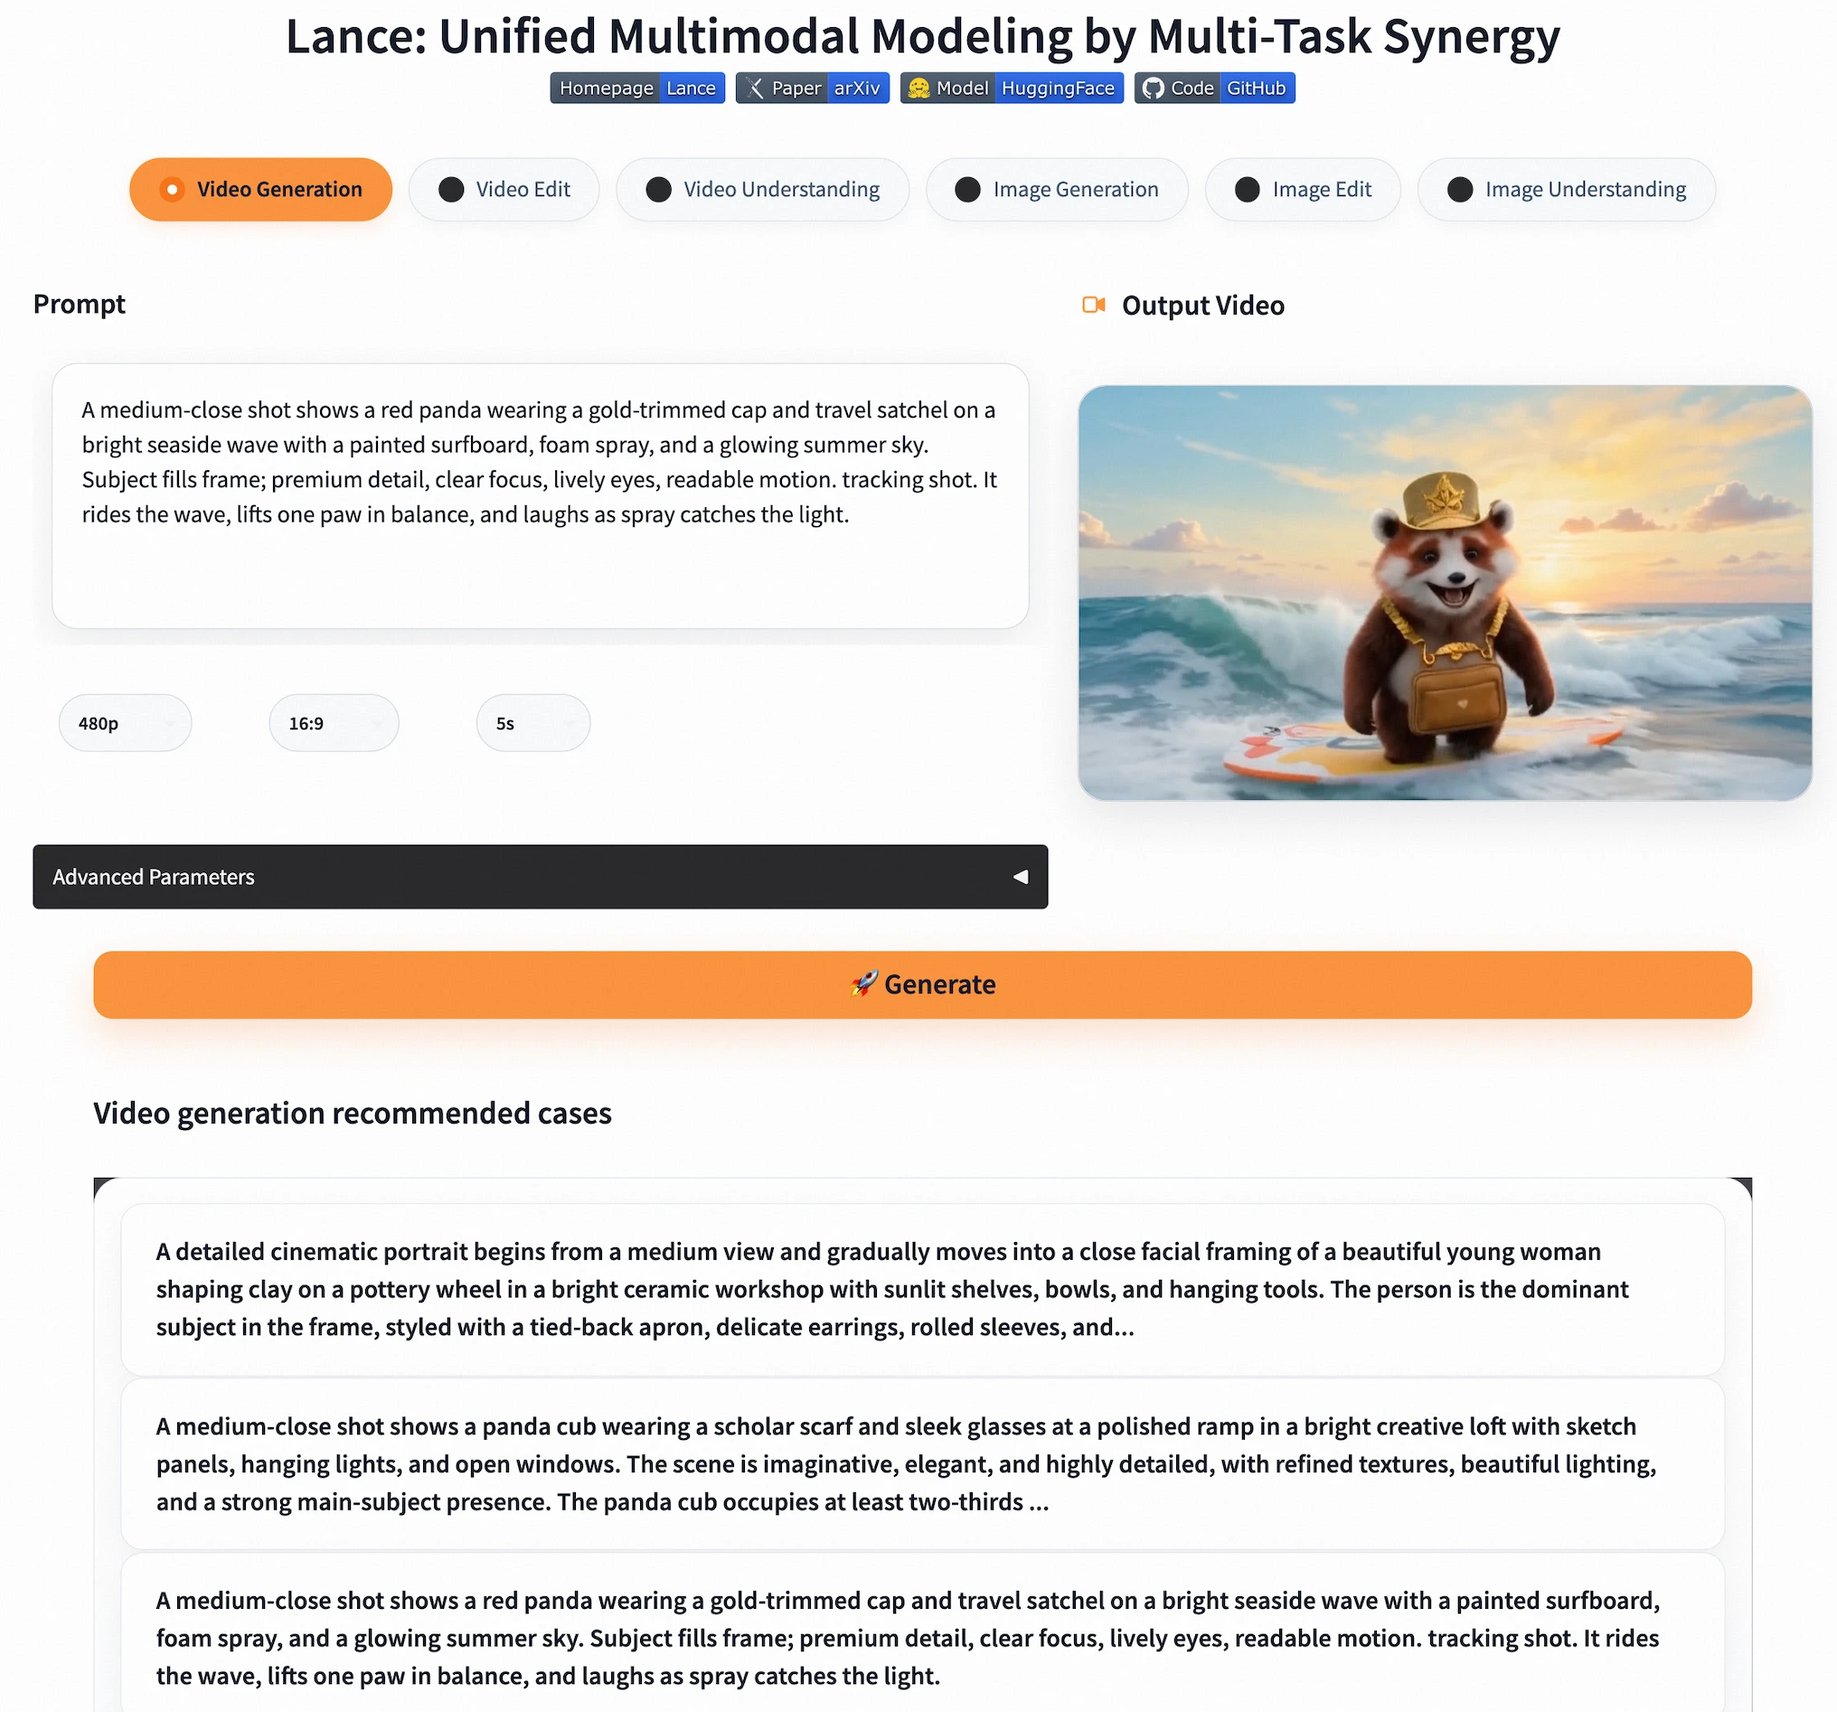
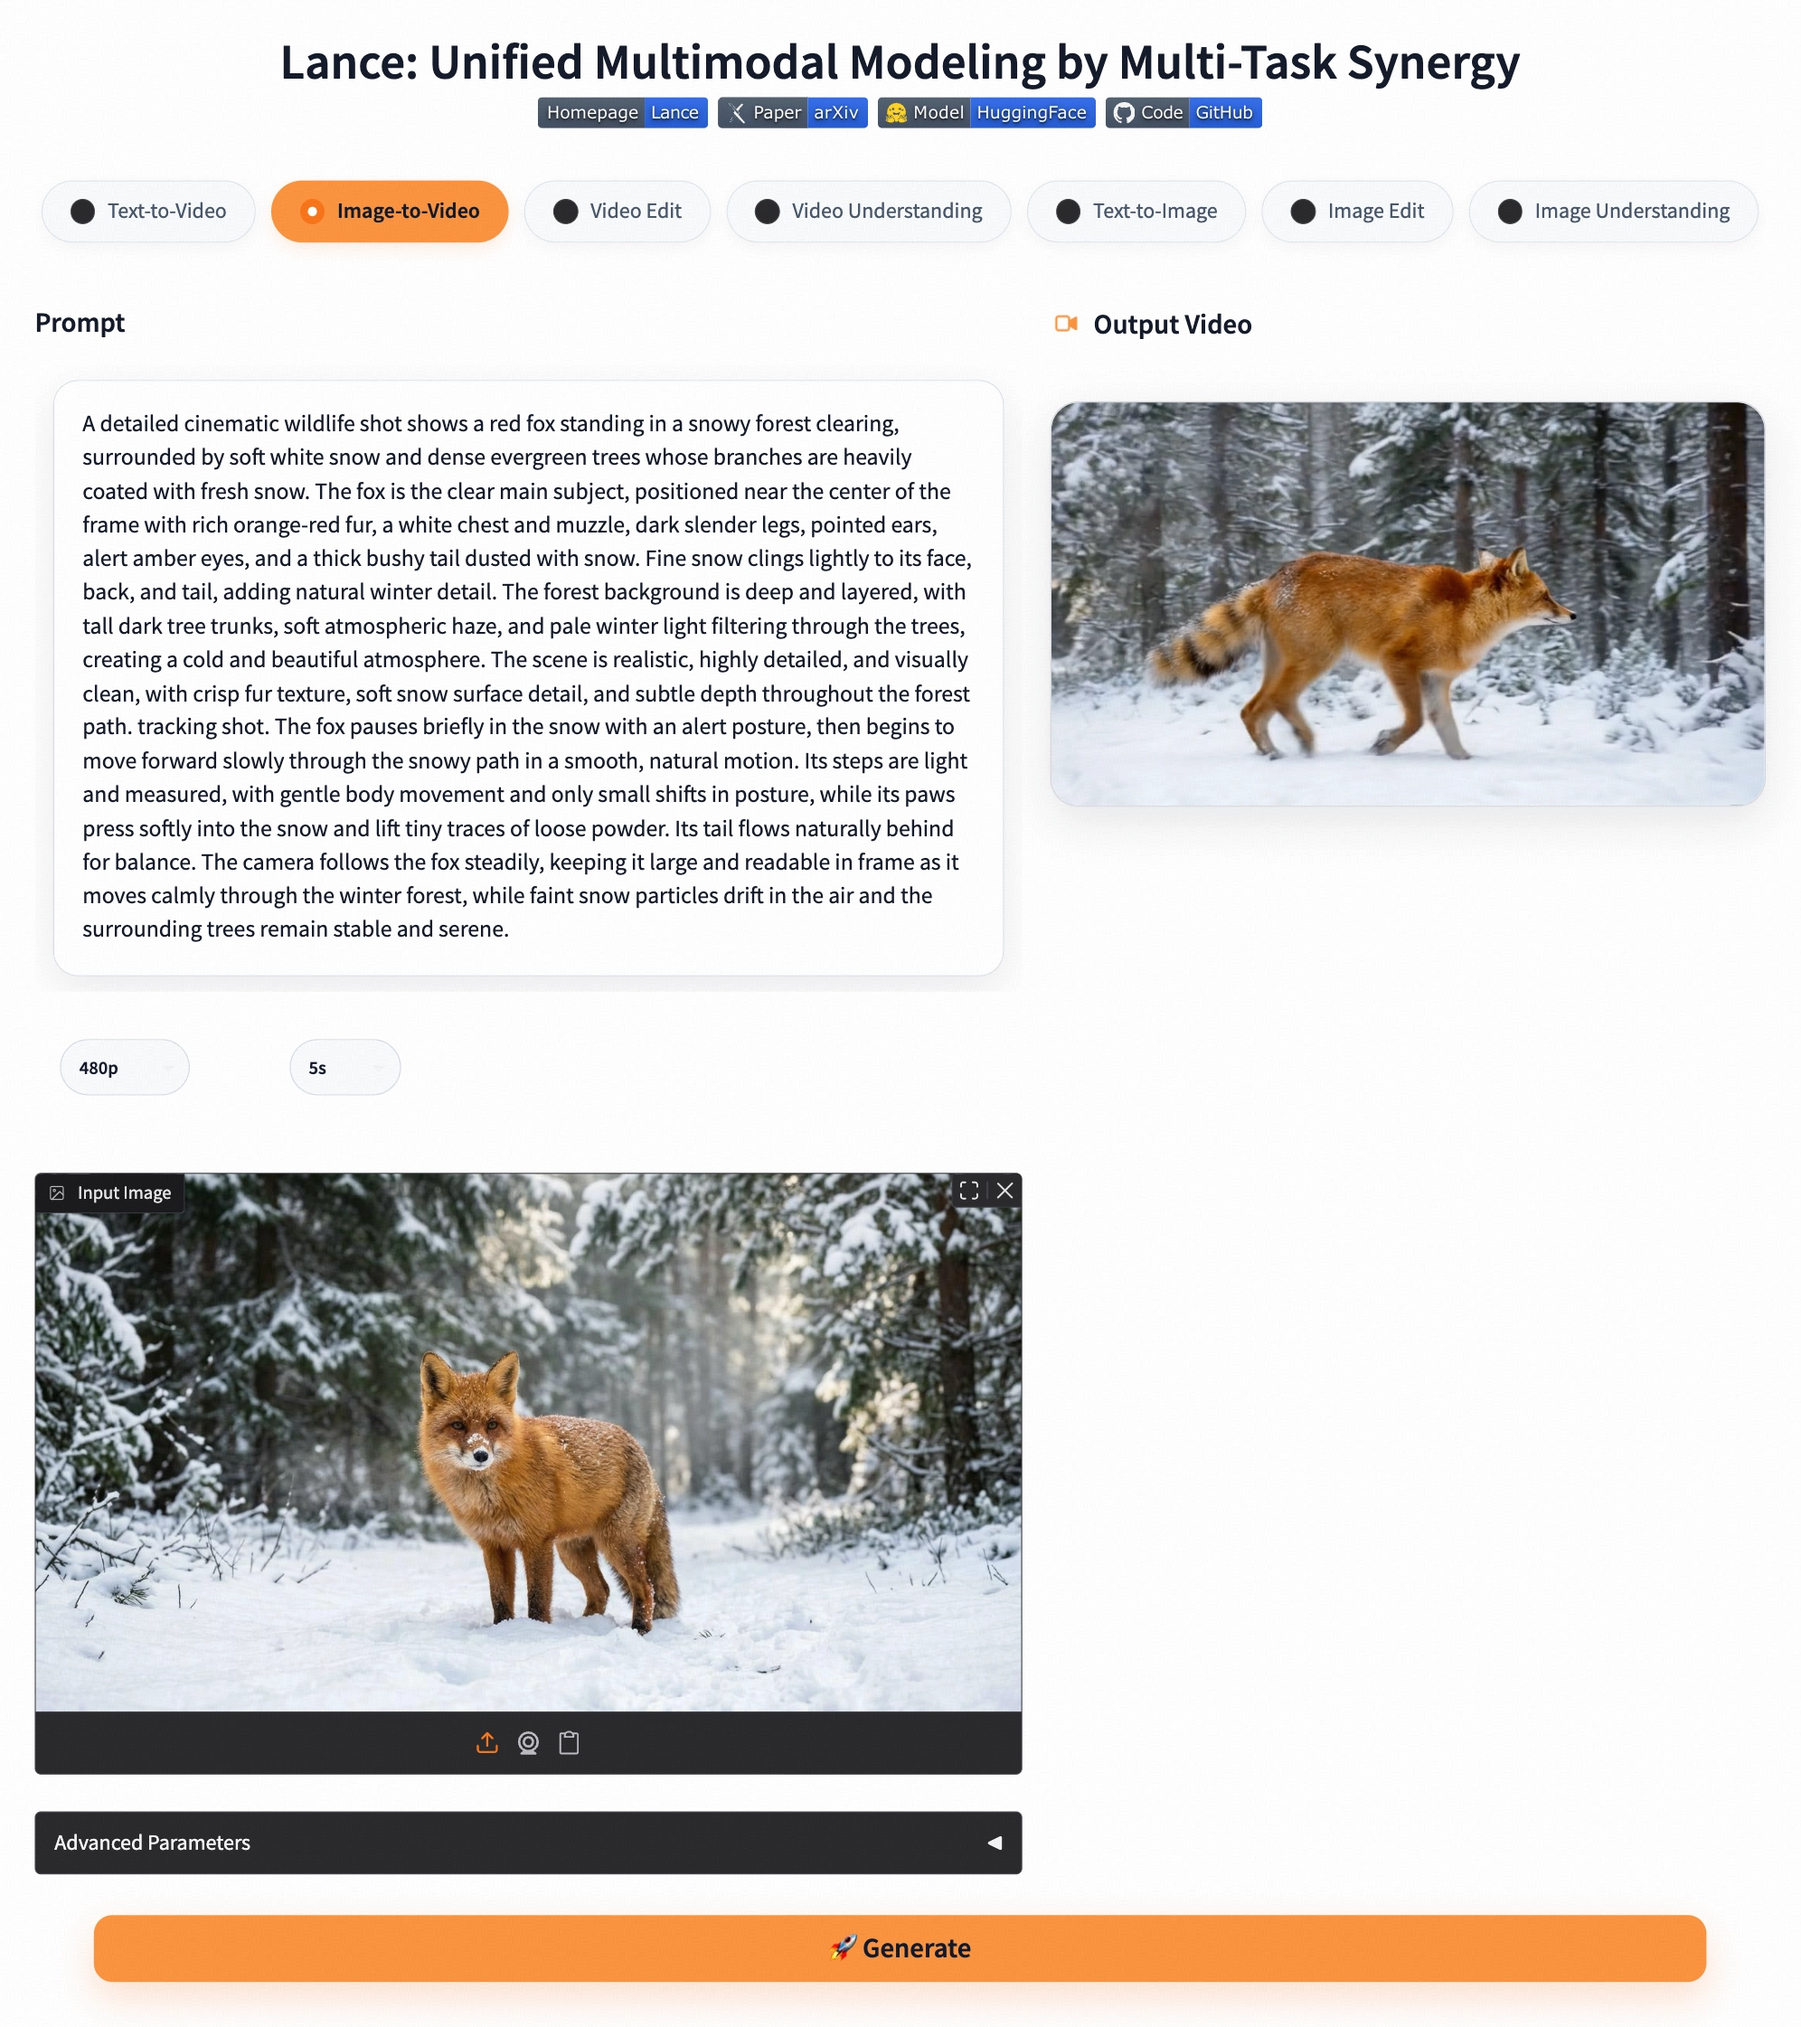
feat: add I2V support to Gradio

diff --git a/lance_gradio.py b/lance_gradio.py
@@ -208,7 +208,7 @@ class LanceT2VV2TPipeline:
             if inference_args.visual_gen:
                 stage_start = time.perf_counter()
                 print(f"[startup][gpu:{self.device}] Initializing VAE", flush=True)
-                vae_model = WanVideoVAE()
+                vae_model = WanVideoVAE(device=torch.device("cuda", self.device))
                 vae_config = deepcopy(vae_model.vae_config)
                 self._log_stage("VAE init", stage_start)
             else:

diff --git a/assets/docs/changelog/2026-05-26.md b/assets/docs/changelog/2026-05-26.md
@@ -3,7 +3,7 @@
 ### Updates
 
 - **Gradio demo support:** We have added a Gradio-based demo for running and testing the model through an interactive web interface.
-- **Multimodal inference tasks:** The Gradio interface now supports **Text-to-Video Generation**, **Video Edit**, **Video Understanding**, **Text-to-Image Generation**, **Image Edit**, and **Image Understanding** in a unified UI.
+- **Multimodal inference tasks:** The Gradio interface now supports **Text-to-Video Generation**, **Image-to-Video Generation**, **Video Edit**, **Video Understanding**, **Text-to-Image Generation**, **Image Edit**, and **Image Understanding** in a unified UI.
 - **Local deployment:** The Gradio app can be launched locally with the following command, making it easier to try the model without writing additional inference scripts.
 
 ```bash
